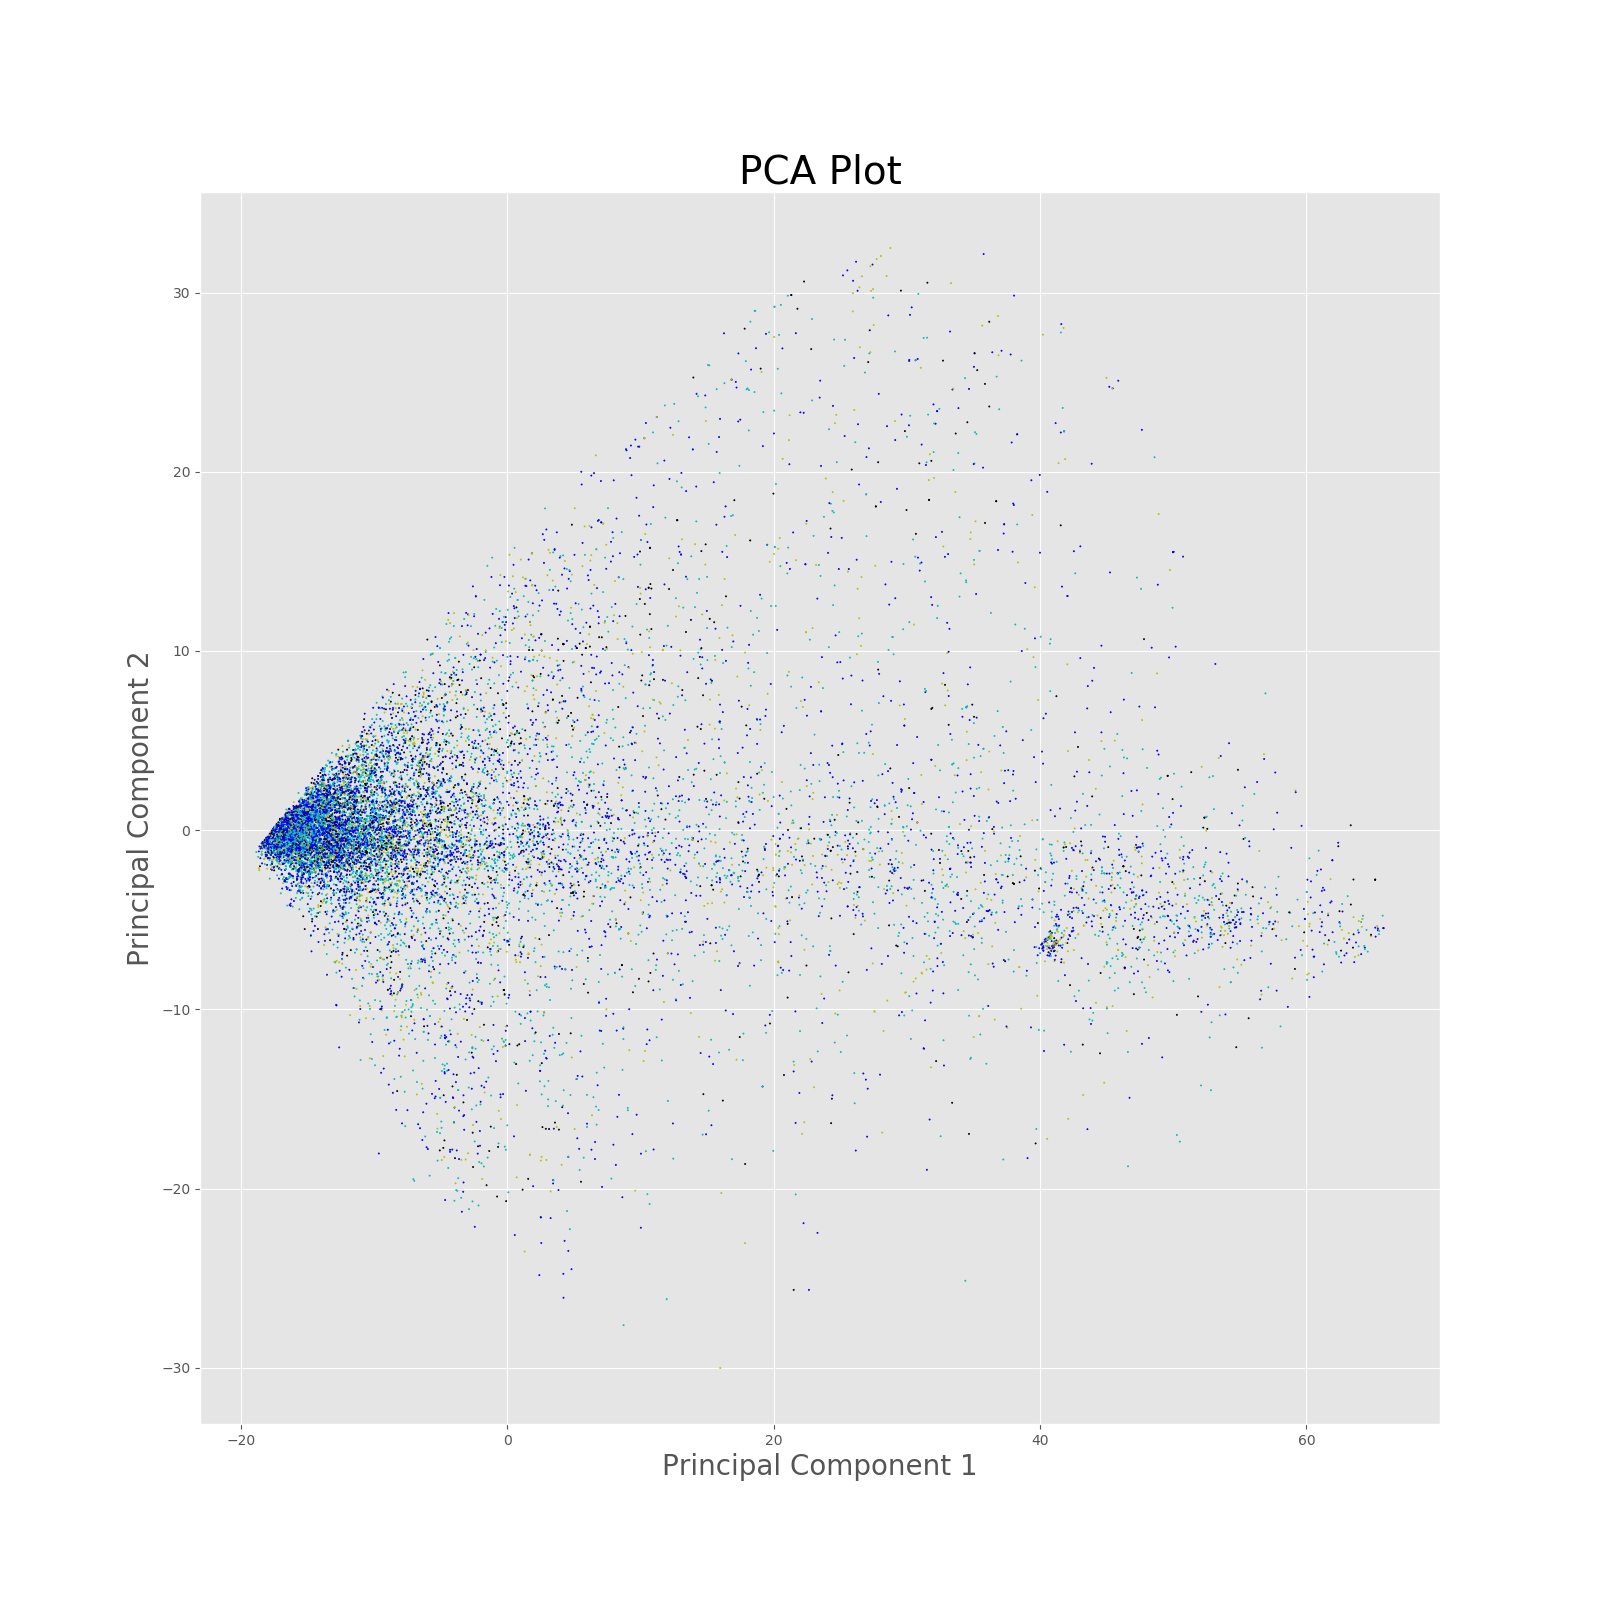
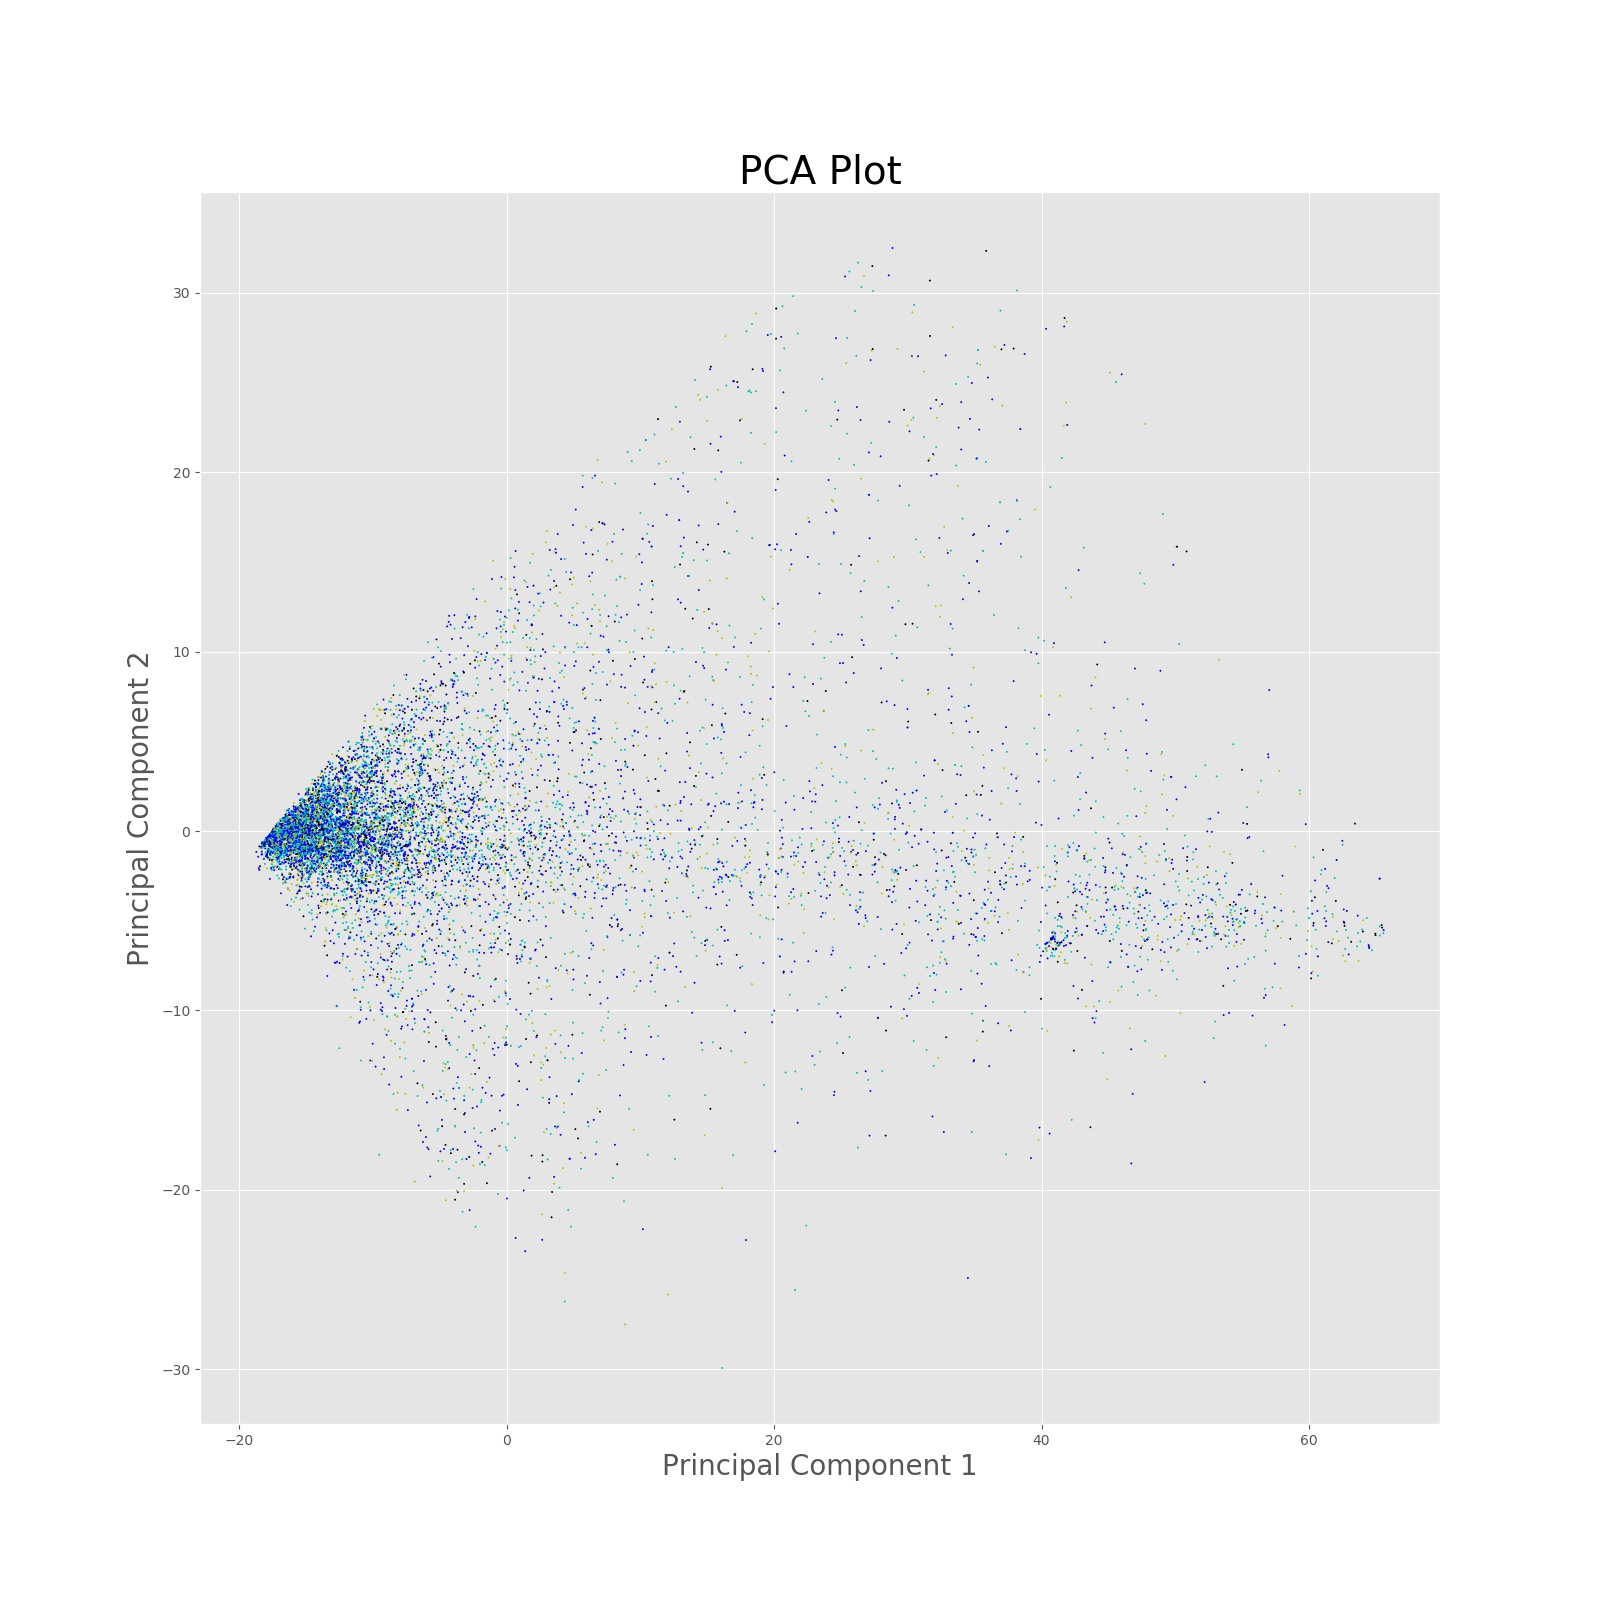
updating pca figure again

Changed region(s): [[0.1562, 0.3438, 0.875, 0.75], [0.4062, 0.5938, 0.4375, 0.625], [0.375, 0.625, 0.4062, 0.6562]]

diff --git a/src/pca.py b/src/pca.py
@@ -64,6 +64,6 @@ if __name__ == '__main__':
     X = np.load('../data/50x50/image_array_no_padding.npy')
     pca, principal_components = create_pca(X,10)
     price = np.load('../data/50x50/sorted_price.npy')
-    # plot_pca(principal_components,price)
+    plot_pca(principal_components,price)
     scree_plot(pca)
     add_pcs_to_df(pca,'../data/50x50/sorted_df.csv',7)
